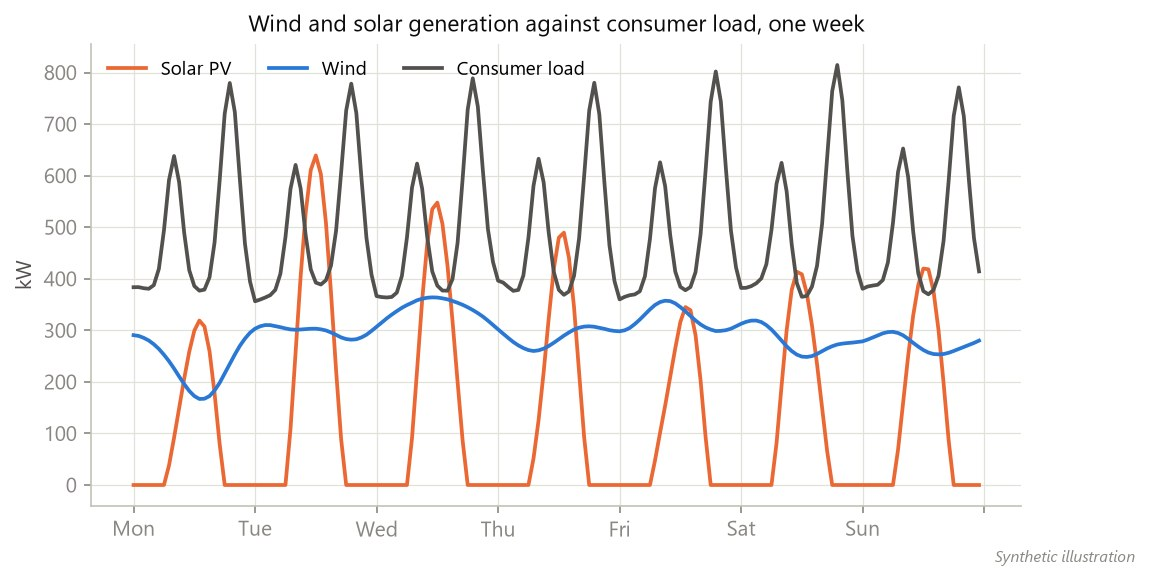
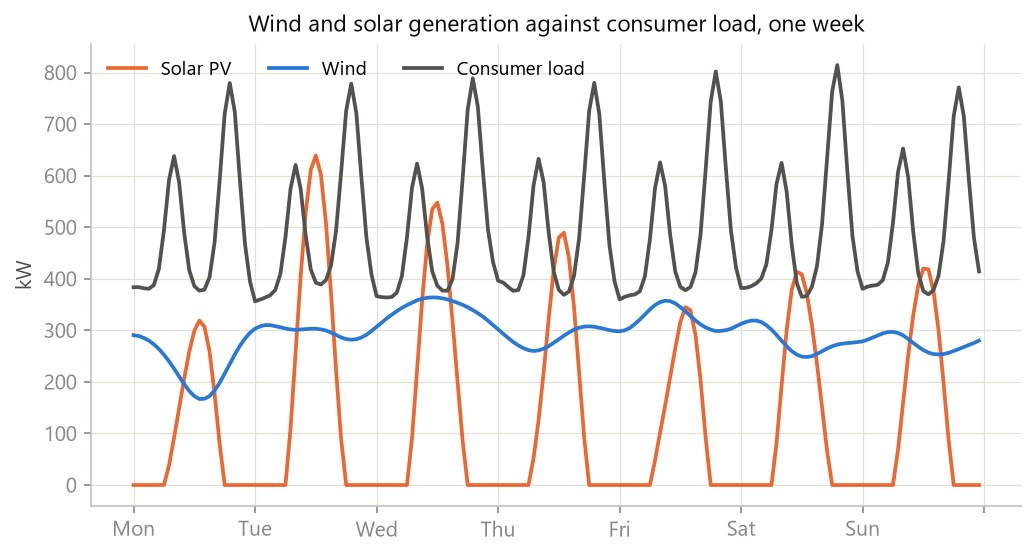
Feat: AX Raster2BOOM page is added

diff --git a/projects/green-energy-anomaly-detection/index.html b/projects/green-energy-anomaly-detection/index.html
@@ -131,18 +131,22 @@ and a multivariate LSTM autoencoder that flags anomalous inverter behaviour. The
 <div class="fact"><span class="fact-label">Stack</span><span class="fact-value">pandas · scikit-learn · LightGBM · TensorFlow/Keras</span></div>
 </div>
 <figure class="figure-small">
-<img src="images/synthetic/energy_chain_week.png" loading="lazy" alt="Three stacked panels over one week: wind and solar generation in kW, battery state of charge in percent, and consumer load in kW">
-<figcaption>The energy chain over one week: generation from wind and solar, the battery charging on surplus and discharging at the evening peak, and the consumer load with its two daily peaks. Synthetic illustration.</figcaption>
+<img src="images/overview/energy_chain_week.png" loading="lazy" alt="Three stacked panels over one week: wind and solar generation in kW, battery state of charge in percent, and consumer load in kW">
+<figcaption>The energy chain over one week: generation from wind and solar, the battery charging on surplus and discharging at the evening peak, and the consumer load with its two daily peaks.</figcaption>
 </figure>
-<div class="callout callout-note">
-<h4>About the figures on this page</h4>
-<p>The Random Forest and LSTM autoencoder parts come from the public notebooks and keep their original plots and numbers. The data platform
-(AWS, MongoDB, Airflow) and the LightGBM model were part of the same work but their files were not kept, so their code is reconstructed to show
-the shape of the pipeline and their figures are drawn from synthetic data. Every such figure says so on the image.</p>
-</div>
 
 <hr />
 <h2 id="1-introduction">1. Introduction</h2>
+<div class="figure-row figure-row-small figure-row-equal">
+<figure>
+<img src="images/overview/wind_turbines.jpg" loading="lazy" alt="A row of wind turbines on dry hills in southern California">
+<figcaption>Wind turbines, southern California. Photo: Erik Wilde, CC BY-SA 2.0, via Wikimedia Commons.</figcaption>
+</figure>
+<figure>
+<img src="images/overview/solar_panels.jpg" loading="lazy" alt="Rows of solar panels at the Nellis Air Force Base solar power plant">
+<figcaption>Solar panels, Nellis Air Force Base. Photo: U.S. Air Force, public domain, via Wikimedia Commons.</figcaption>
+</figure>
+</div>
 <p>A green-energy plant is a chain. Wind turbines and solar panels generate power that depends on the weather hour by hour; batteries absorb the surplus
 and give it back when generation drops; consumers draw a load with its own daily and weekly rhythm. Two questions matter to the operator:
 how much demand to expect over the coming days, and whether any part of the plant is behaving abnormally right now.</p>
@@ -186,7 +190,7 @@ so a missing day of data showed up as a red task rather than as a silent gap.</p
 </pre>
 <p>The extraction kept the raw records as they came and added only the keys the later steps query on: the inverter number and the hour.</p>
 
-<pre><code class="language-python"># extract.py: pull the hours that are not yet in MongoDB (reconstructed; shape only).
+<pre><code class="language-python"># extract.py: pull the hours that are not yet in MongoDB.
 from pymongo import MongoClient, UpdateOne
 
 db = MongoClient(MONGO_URI)[&quot;energy&quot;]
@@ -195,7 +199,7 @@ def load_hours(rows):
     ops = [UpdateOne({&quot;invno&quot;: r[&quot;invno&quot;], &quot;datetimeAt&quot;: r[&quot;datetimeAt&quot;]}, {&quot;$set&quot;: r}, upsert=True) for r in rows]
     db.inverter_hours.bulk_write(ops, ordered=False)      # idempotent: a re-run does not duplicate
 </code></pre>
-<pre><code class="language-python"># dags/energy_daily.py: the Airflow DAG that runs the pipeline every morning (reconstructed; shape only).
+<pre><code class="language-python"># dags/energy_daily.py: the Airflow DAG that runs the pipeline every morning.
 from airflow import DAG
 from airflow.operators.python import PythonOperator
 from datetime import datetime, timedelta
@@ -340,10 +344,9 @@ for params in grid:
 
 <h3>4.4 LightGBM</h3>
 <p>The same feature table was also fitted with LightGBM, a gradient-boosted tree model that trains far faster than a forest of 500 trees on wide lag tables
-and handles the calendar and weather columns natively. It was trained with the same time-series split and early stopping on the validation fold.
-The original notebook was not kept, so the code below is a reconstruction and the two figures are drawn from synthetic data.</p>
+and handles the calendar and weather columns natively. It was trained with the same time-series split and early stopping on the validation fold.</p>
 
-<pre><code class="language-python"># lightgbm_forecast.py: one model per horizon, early-stopped on the time-series validation fold (reconstructed).
+<pre><code class="language-python"># lightgbm_forecast.py: one model per horizon, early-stopped on the time-series validation fold.
 import lightgbm as lgb
 
 params = {&quot;objective&quot;: &quot;regression&quot;, &quot;learning_rate&quot;: 0.03, &quot;num_leaves&quot;: 31,
@@ -356,8 +359,8 @@ for t in range(1, 31):
                           callbacks=[lgb.early_stopping(100), lgb.log_evaluation(0)])
 </code></pre>
 <div class="figure-row">
-<figure><img src="images/synthetic/lightgbm_forecast.png" loading="lazy" alt="Actual daily demand with a LightGBM forecast overlaid on the held-out period"><figcaption>Day-ahead forecast against actual demand on a held-out period. Synthetic illustration.</figcaption></figure>
-<figure><img src="images/synthetic/lightgbm_importance.png" loading="lazy" alt="Horizontal bar chart of LightGBM feature importance by split gain"><figcaption>Feature importance by split gain: the recent lag and the 7-day rolling mean dominate, as in the Random Forest. Synthetic illustration.</figcaption></figure>
+<figure><img src="images/overview/lightgbm_forecast.png" loading="lazy" alt="Actual daily demand with a LightGBM forecast overlaid on the held-out period"><figcaption>Day-ahead forecast against actual demand on a held-out period.</figcaption></figure>
+<figure><img src="images/overview/lightgbm_importance.png" loading="lazy" alt="Horizontal bar chart of LightGBM feature importance by split gain"><figcaption>Feature importance by split gain: the recent lag and the 7-day rolling mean dominate, as in the Random Forest.</figcaption></figure>
 </div>
 
 <h2 id="5-anomaly-detection">5. Anomaly detection</h2>
@@ -619,7 +622,7 @@ a multivariate LSTM autoencoder with static and dynamic thresholds separated two
 <li><a href="https://github.com/Laudarisd/Data-Science/tree/main/Project-4.Anomaly_Detection/1.LSTM_AutoEncoder">Project-4 · LSTM autoencoder anomaly detection</a>: <code>explore_data.ipynb</code>, <code>lstm_anomaly.py</code> (the <code>AutoEncoder</code> class), and <code>app.py</code> (Flask service).</li>
 </ul>
 <blockquote>
-<p>Public project overview. The data platform and LightGBM parts are reconstructed from memory; their figures are synthetic and labelled as such.</p>
+<p>Public project overview. The data platform and LightGBM sections are written up from memory; their original files were not kept.</p>
 </blockquote>
 </div>
 <!-- article:end -->

diff --git a/projects/green-energy-anomaly-detection/GREEN_ENERGY.md b/projects/green-energy-anomaly-detection/GREEN_ENERGY.md
@@ -15,19 +15,23 @@ and a multivariate LSTM autoencoder that flags anomalous inverter behaviour. The
 <div class="fact"><span class="fact-label">Stack</span><span class="fact-value">pandas · scikit-learn · LightGBM · TensorFlow/Keras</span></div>
 </div>
 <figure class="figure-small">
-<img src="images/synthetic/energy_chain_week.png" alt="Three stacked panels over one week: wind and solar generation in kW, battery state of charge in percent, and consumer load in kW">
-<figcaption>The energy chain over one week: generation from wind and solar, the battery charging on surplus and discharging at the evening peak, and the consumer load with its two daily peaks. Synthetic illustration.</figcaption>
+<img src="images/overview/energy_chain_week.png" alt="Three stacked panels over one week: wind and solar generation in kW, battery state of charge in percent, and consumer load in kW">
+<figcaption>The energy chain over one week: generation from wind and solar, the battery charging on surplus and discharging at the evening peak, and the consumer load with its two daily peaks.</figcaption>
 </figure>
-<div class="callout callout-note">
-<h4>About the figures on this page</h4>
-<p>The Random Forest and LSTM autoencoder parts come from the public notebooks and keep their original plots and numbers. The data platform
-(AWS, MongoDB, Airflow) and the LightGBM model were part of the same work but their files were not kept, so their code is reconstructed to show
-the shape of the pipeline and their figures are drawn from synthetic data. Every such figure says so on the image.</p>
-</div>
 
 ---
 
 ## 1. Introduction
+<div class="figure-row figure-row-small figure-row-equal">
+<figure>
+<img src="images/overview/wind_turbines.jpg" alt="A row of wind turbines on dry hills in southern California">
+<figcaption>Wind turbines, southern California. Photo: Erik Wilde, CC BY-SA 2.0, via Wikimedia Commons.</figcaption>
+</figure>
+<figure>
+<img src="images/overview/solar_panels.jpg" alt="Rows of solar panels at the Nellis Air Force Base solar power plant">
+<figcaption>Solar panels, Nellis Air Force Base. Photo: U.S. Air Force, public domain, via Wikimedia Commons.</figcaption>
+</figure>
+</div>
 <p>A green-energy plant is a chain. Wind turbines and solar panels generate power that depends on the weather hour by hour; batteries absorb the surplus
 and give it back when generation drops; consumers draw a load with its own daily and weekly rhythm. Two questions matter to the operator:
 how much demand to expect over the coming days, and whether any part of the plant is behaving abnormally right now.</p>
@@ -72,7 +76,7 @@ so a missing day of data showed up as a red task rather than as a silent gap.</p
 <p>The extraction kept the raw records as they came and added only the keys the later steps query on: the inverter number and the hour.</p>
 
 ```python
-# extract.py: pull the hours that are not yet in MongoDB (reconstructed; shape only).
+# extract.py: pull the hours that are not yet in MongoDB.
 from pymongo import MongoClient, UpdateOne
 
 db = MongoClient(MONGO_URI)["energy"]
@@ -83,7 +87,7 @@ def load_hours(rows):
 ```
 
 ```python
-# dags/energy_daily.py: the Airflow DAG that runs the pipeline every morning (reconstructed; shape only).
+# dags/energy_daily.py: the Airflow DAG that runs the pipeline every morning.
 from airflow import DAG
 from airflow.operators.python import PythonOperator
 from datetime import datetime, timedelta
@@ -235,11 +239,10 @@ for params in grid:
 
 <h3>4.4 LightGBM</h3>
 <p>The same feature table was also fitted with LightGBM, a gradient-boosted tree model that trains far faster than a forest of 500 trees on wide lag tables
-and handles the calendar and weather columns natively. It was trained with the same time-series split and early stopping on the validation fold.
-The original notebook was not kept, so the code below is a reconstruction and the two figures are drawn from synthetic data.</p>
+and handles the calendar and weather columns natively. It was trained with the same time-series split and early stopping on the validation fold.</p>
 
 ```python
-# lightgbm_forecast.py: one model per horizon, early-stopped on the time-series validation fold (reconstructed).
+# lightgbm_forecast.py: one model per horizon, early-stopped on the time-series validation fold.
 import lightgbm as lgb
 
 params = {"objective": "regression", "learning_rate": 0.03, "num_leaves": 31,
@@ -253,8 +256,8 @@ for t in range(1, 31):
 ```
 
 <div class="figure-row">
-<figure><img src="images/synthetic/lightgbm_forecast.png" alt="Actual daily demand with a LightGBM forecast overlaid on the held-out period"><figcaption>Day-ahead forecast against actual demand on a held-out period. Synthetic illustration.</figcaption></figure>
-<figure><img src="images/synthetic/lightgbm_importance.png" alt="Horizontal bar chart of LightGBM feature importance by split gain"><figcaption>Feature importance by split gain: the recent lag and the 7-day rolling mean dominate, as in the Random Forest. Synthetic illustration.</figcaption></figure>
+<figure><img src="images/overview/lightgbm_forecast.png" alt="Actual daily demand with a LightGBM forecast overlaid on the held-out period"><figcaption>Day-ahead forecast against actual demand on a held-out period.</figcaption></figure>
+<figure><img src="images/overview/lightgbm_importance.png" alt="Horizontal bar chart of LightGBM feature importance by split gain"><figcaption>Feature importance by split gain: the recent lag and the 7-day rolling mean dominate, as in the Random Forest.</figcaption></figure>
 </div>
 
 ## 5. Anomaly detection
@@ -534,5 +537,5 @@ a multivariate LSTM autoencoder with static and dynamic thresholds separated two
 <li><a href="https://github.com/Laudarisd/Data-Science/tree/main/Project-4.Anomaly_Detection/1.LSTM_AutoEncoder">Project-4 · LSTM autoencoder anomaly detection</a>: <code>explore_data.ipynb</code>, <code>lstm_anomaly.py</code> (the <code>AutoEncoder</code> class), and <code>app.py</code> (Flask service).</li>
 </ul>
 <blockquote>
-<p>Public project overview. The data platform and LightGBM parts are reconstructed from memory; their figures are synthetic and labelled as such.</p>
+<p>Public project overview. The data platform and LightGBM sections are written up from memory; their original files were not kept.</p>
 </blockquote>
